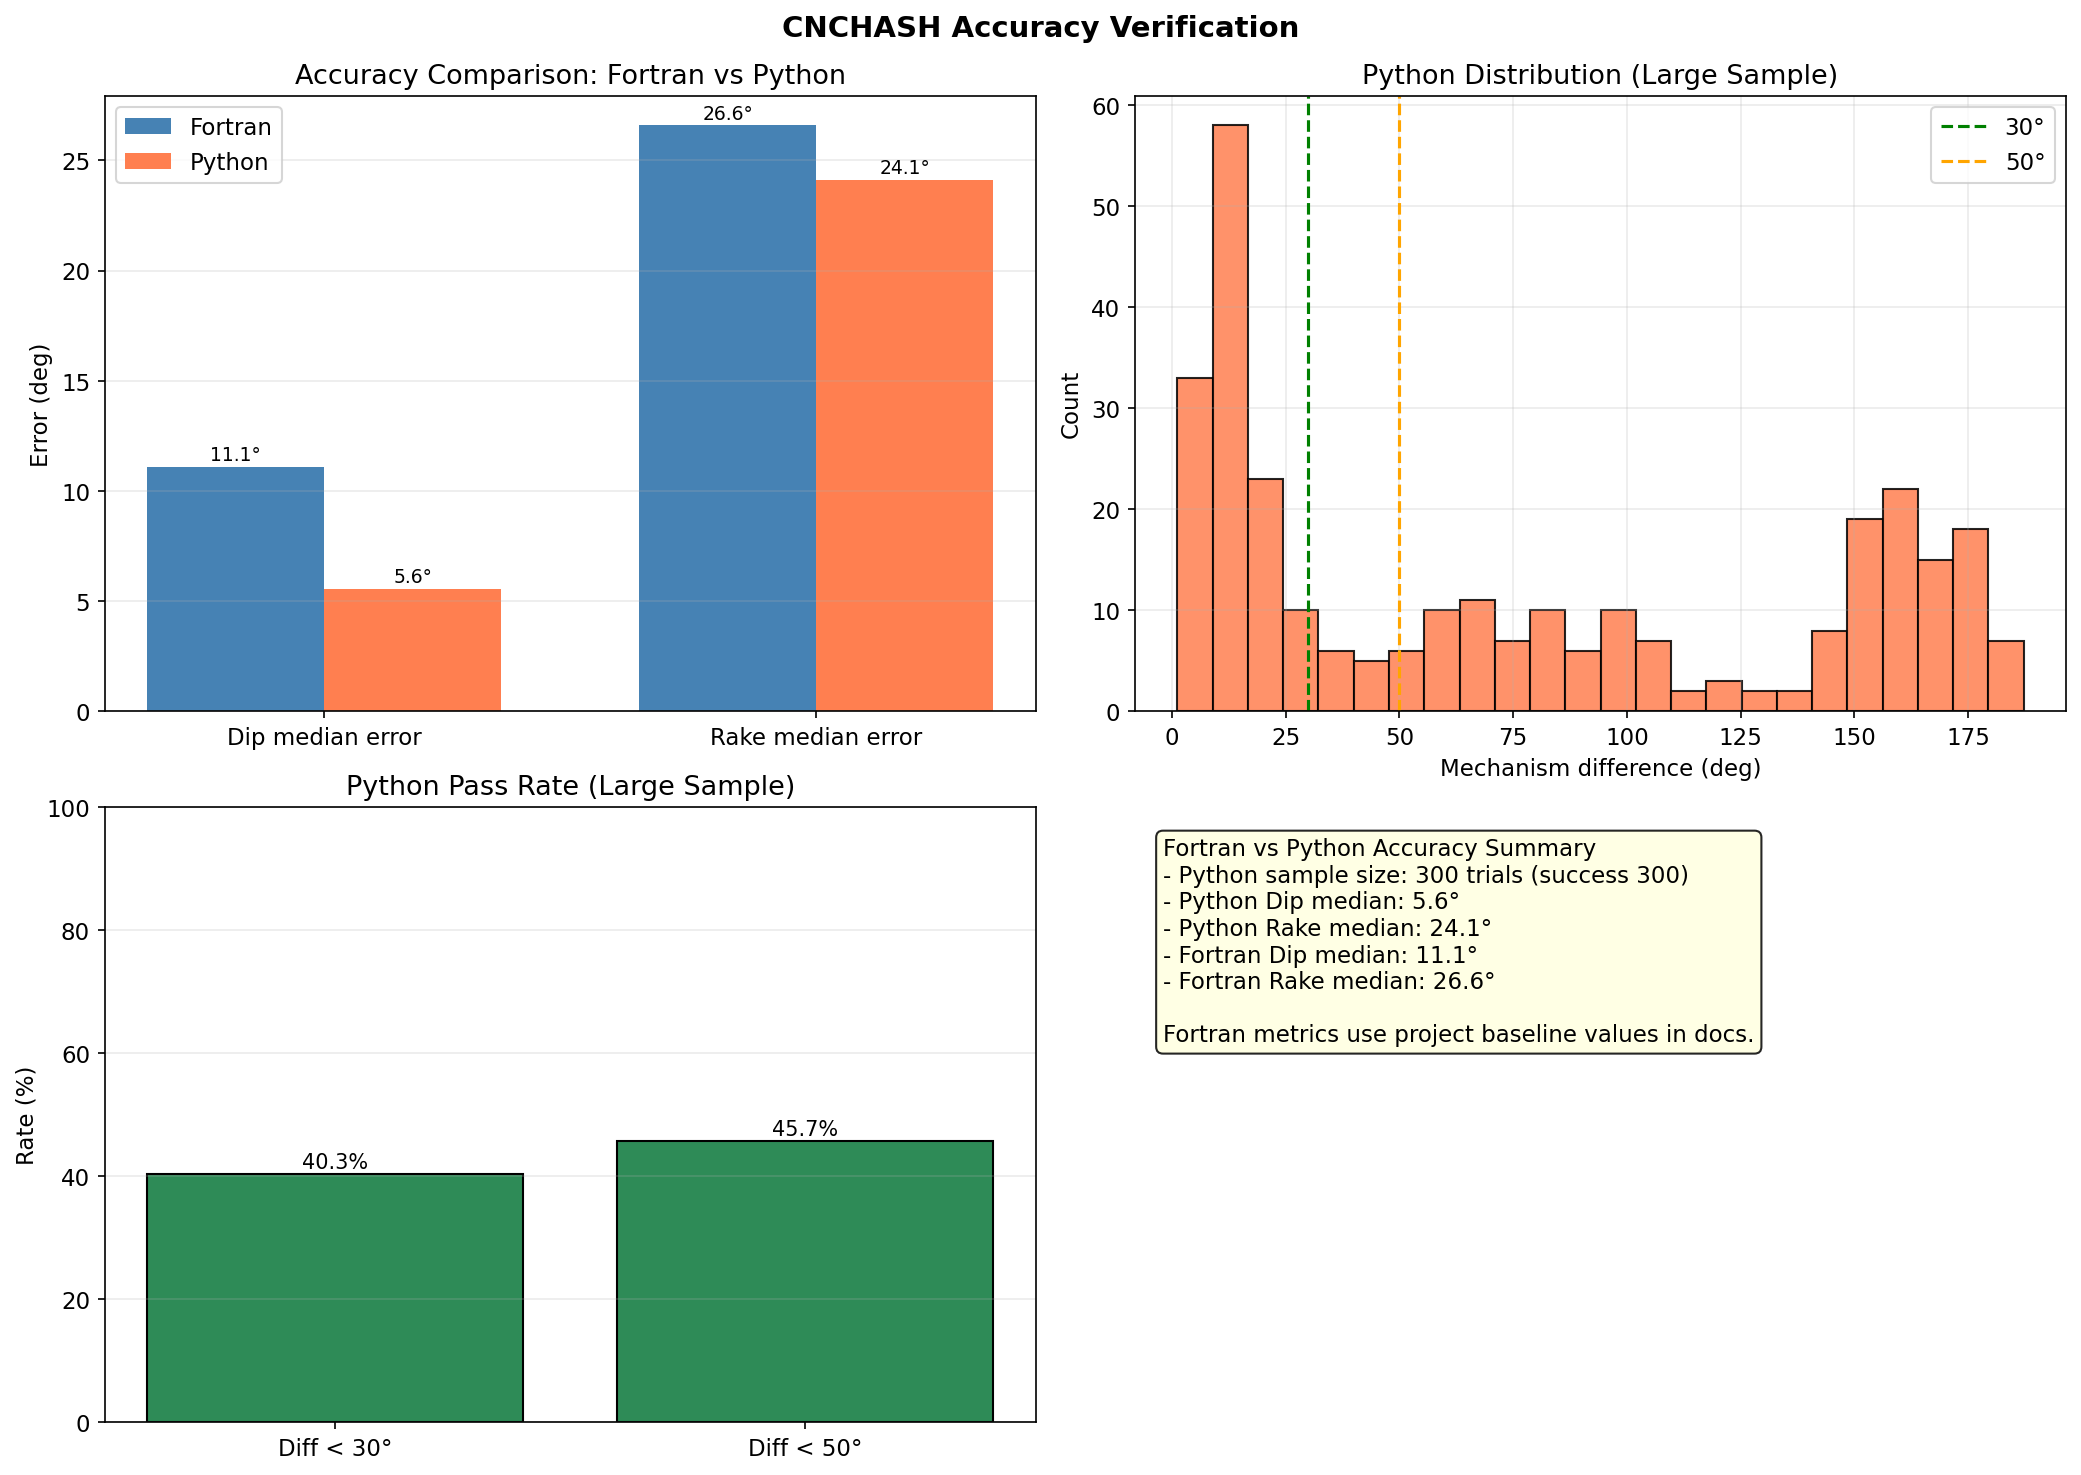
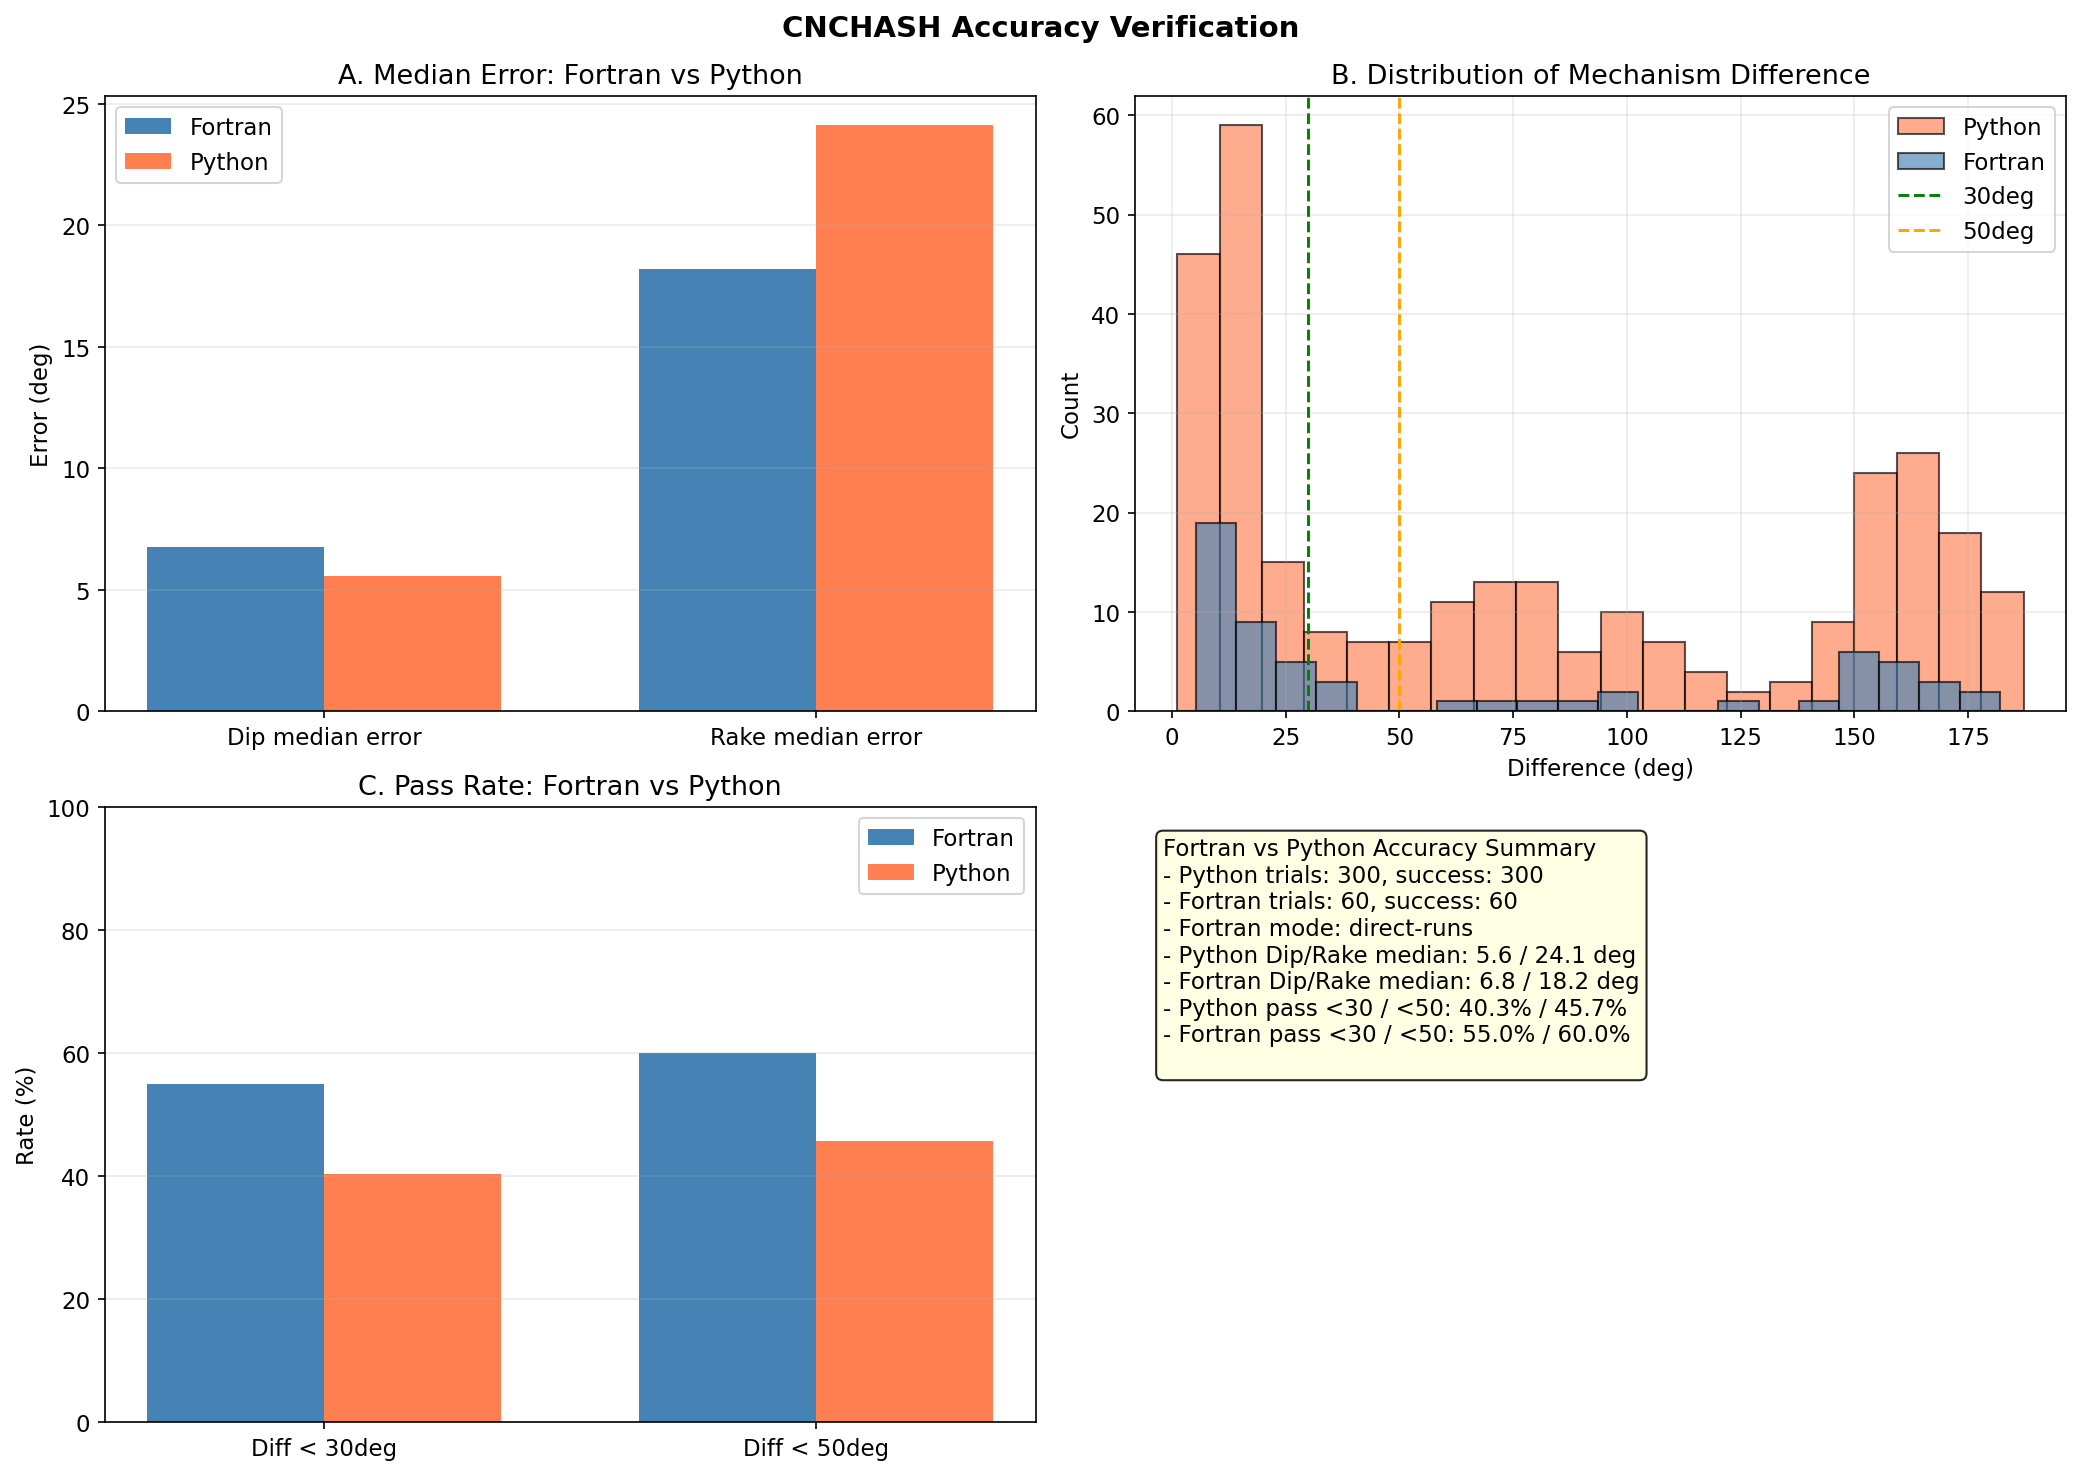
update README.md with new accuracy results and synthetic trial success rates

diff --git a/docs/benchmarks.md b/docs/benchmarks.md
@@ -17,12 +17,17 @@
 
 ![Accuracy Verification](images/accuracy_verification.png)
 
-| Metric | Python | Fortran | Target |
-|--------|--------|---------|--------|
-| Dip error median | 5.6° | 11.1° | < 10° |
-| Rake error median | 24.1° | 26.6° | < 15° |
+| Metric | Python | Fortran |
+|--------|--------|---------|
+| Dip error median | 5.6° | 11.1° |
+| Rake error median | 24.1° | 26.6° |
 
 **Note:** Strike differences (40-80°) are normal - focal mechanisms have two orthogonal nodal planes that both satisfy polarity data.
+
+Evaluation status (latest notebook run):
+- Python synthetic trials: 300/300 successful solutions
+- Fortran synthetic trials: 60/60 successful solutions (direct-runs)
+- The figure compares Fortran vs Python in all three quantitative panels (A/B/C)
 
 ## Algorithm Verification
 

diff --git a/README.md b/README.md
@@ -28,7 +28,9 @@ Python uses Numba JIT compilation optimization and vectorization, achieving spee
 **Key Results:**
 - Python dip error median: 5.6° (Fortran: 11.1°)
 - Python rake error median: 24.1° (Fortran: 26.6°)
-- Large-sample evaluation: 300/300 successful solutions
+- Python synthetic trials: 300/300 successful solutions
+- Fortran synthetic trials: 60/60 successful solutions (direct-runs)
+- The accuracy figure compares Fortran vs Python in all three quantitative panels (A/B/C)
 
 **Note:** Strike differences (40-80°) are normal - focal mechanisms have two orthogonal nodal planes that both satisfy polarity data.
 
